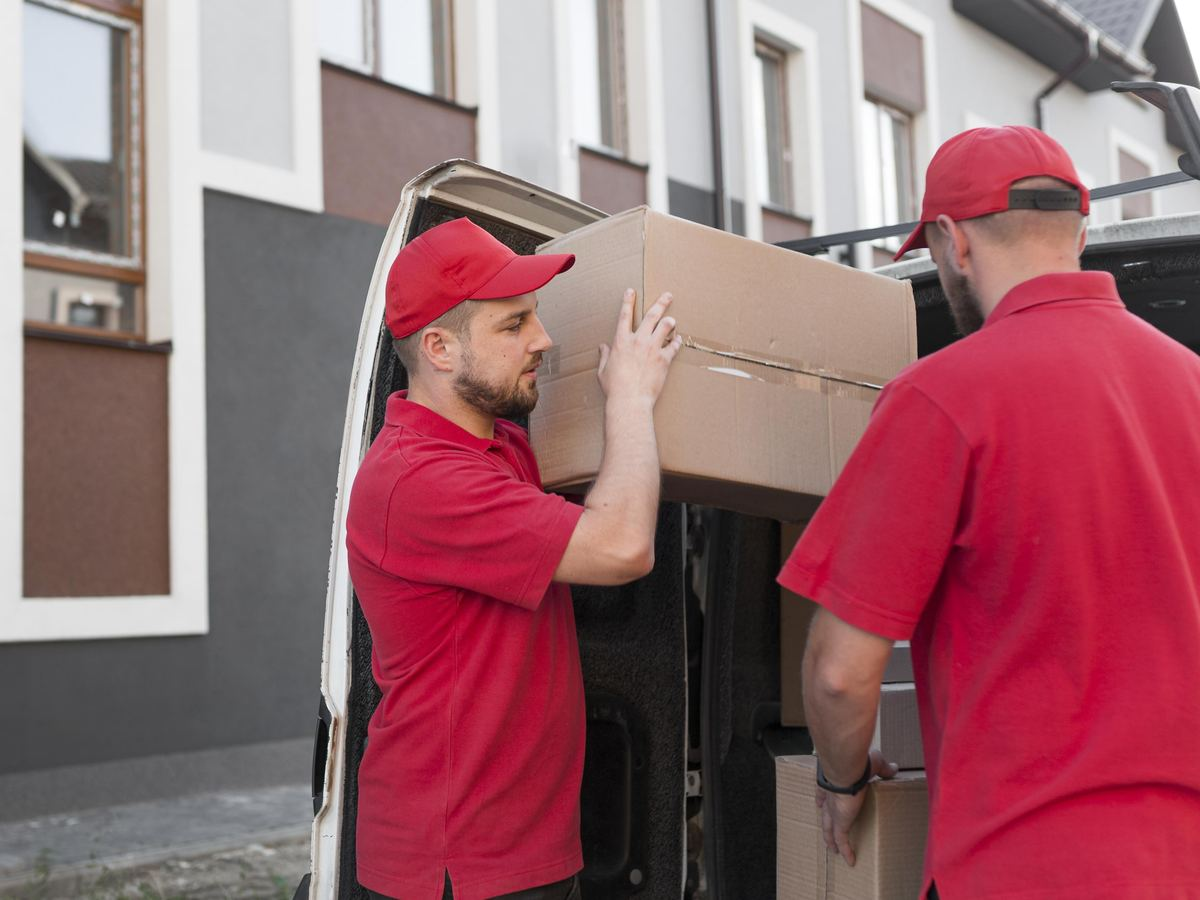
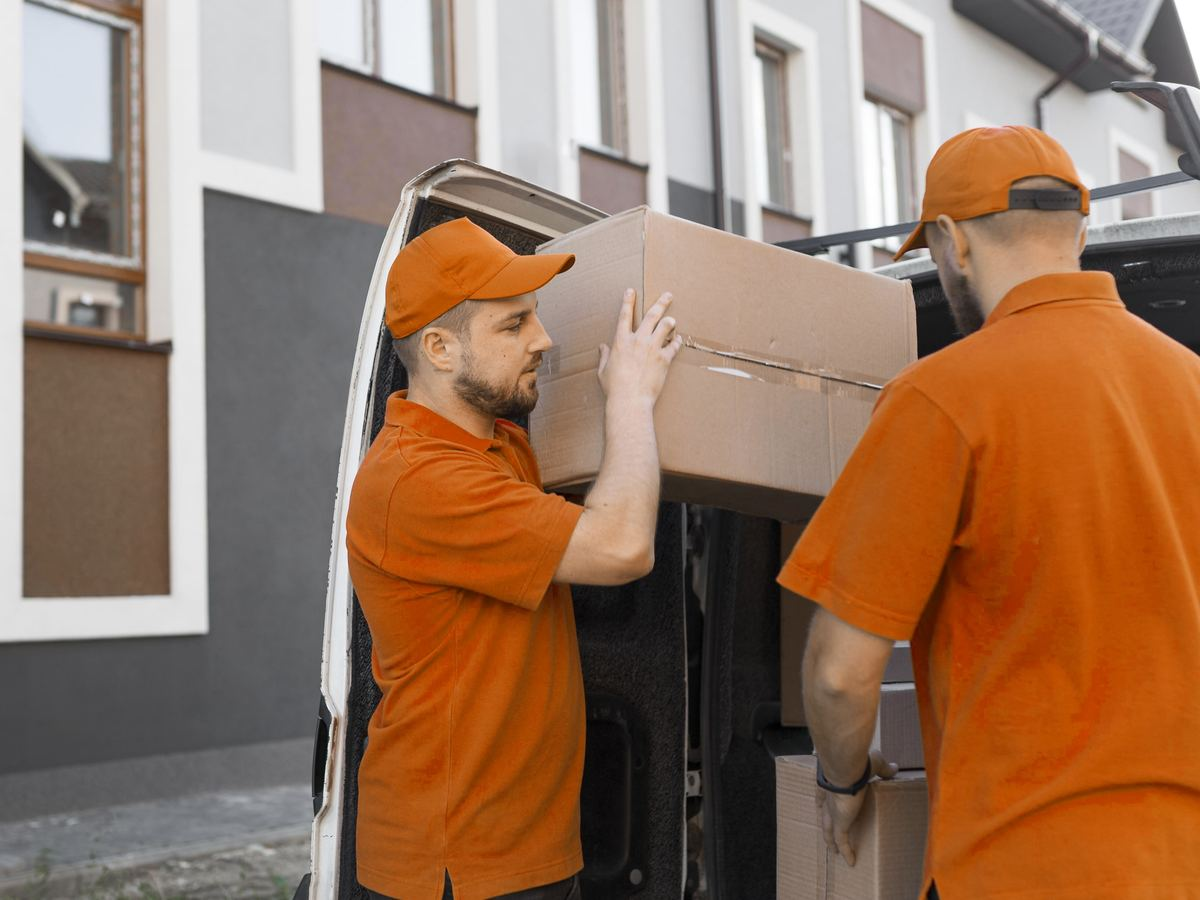
Recolor red polos to brand orange in team photo; reuse it for the Calvià office-move article

diff --git a/blog/mudanzas-oficinas-calvia-guia-practica.html b/blog/mudanzas-oficinas-calvia-guia-practica.html
@@ -14,12 +14,12 @@
 <meta property="og:site_name" content="Mallorca Transportes">
 <meta property="og:title" content="Mudanzas de oficinas en Calvià: Guía práctica para empresas que se trasladan">
 <meta property="og:description" content="Descubre cómo organizar una mudanza de oficina en Calvià, Mallorca, paso a paso y sin estrés. Consejos, servicios esenciales y errores que evitar.">
-<meta property="og:image" content="https://mallorcatransportes.com/img/trabajo-mudanza-05.jpg">
+<meta property="og:image" content="https://mallorcatransportes.com/img/equipo-mudanzas-mallorca.jpg">
 <meta property="og:url" content="https://mallorcatransportes.com/blog/mudanzas-oficinas-calvia-guia-practica.html">
 <meta name="twitter:card" content="summary_large_image">
 <meta name="twitter:title" content="Mudanzas de oficinas en Calvià: Guía práctica para empresas que se trasladan">
 <meta name="twitter:description" content="Descubre cómo organizar una mudanza de oficina en Calvià, Mallorca, paso a paso y sin estrés. Consejos, servicios esenciales y errores que evitar.">
-<meta name="twitter:image" content="https://mallorcatransportes.com/img/trabajo-mudanza-05.jpg">
+<meta name="twitter:image" content="https://mallorcatransportes.com/img/equipo-mudanzas-mallorca.jpg">
 
 <link rel="icon" type="image/png" sizes="32x32" href="../img/favicon-32.png">
 <link rel="icon" type="image/png" sizes="192x192" href="../img/favicon-192.png">
@@ -36,7 +36,7 @@
   "@type": "BlogPosting",
   "headline": "Mudanzas de oficinas en Calvià: Guía práctica para empresas que se trasladan",
   "description": "Descubre cómo organizar una mudanza de oficina en Calvià, Mallorca, paso a paso y sin estrés. Consejos, servicios esenciales y errores que evitar.",
-  "image": "https://mallorcatransportes.com/img/trabajo-mudanza-05.jpg",
+  "image": "https://mallorcatransportes.com/img/equipo-mudanzas-mallorca.jpg",
   "datePublished": "2026-08-31",
   "author": {"@type": "Organization", "name": "Mallorca Transportes"},
   "publisher": {
@@ -113,7 +113,7 @@
   </section>
 
   <div class="article-hero">
-    <img src="../img/trabajo-mudanza-05.jpg" alt="Instalación de mobiliario tras mudanza en Mallorca" width="1600" height="700" fetchpriority="high">
+    <img src="../img/equipo-mudanzas-mallorca.jpg" alt="Equipo de Mallorca Transportes cargando mobiliario de oficina en una furgoneta" width="1600" height="700" fetchpriority="high">
   </div>
 
   <section class="section">

diff --git a/blog/index.html b/blog/index.html
@@ -84,7 +84,7 @@
         <!-- NEXT_ARTICLE_CARD -->
         <article class="blog-card">
           <a href="mudanzas-oficinas-calvia-guia-practica.html" class="blog-card-image">
-            <img src="../img/trabajo-mudanza-05.jpg" alt="Instalación de mobiliario tras mudanza en Mallorca" loading="lazy" width="900" height="563">
+            <img src="../img/equipo-mudanzas-mallorca.jpg" alt="Equipo de Mallorca Transportes cargando mobiliario de oficina en una furgoneta" loading="lazy" width="900" height="563">
           </a>
           <div class="blog-card-body">
             <div class="tag-row">
